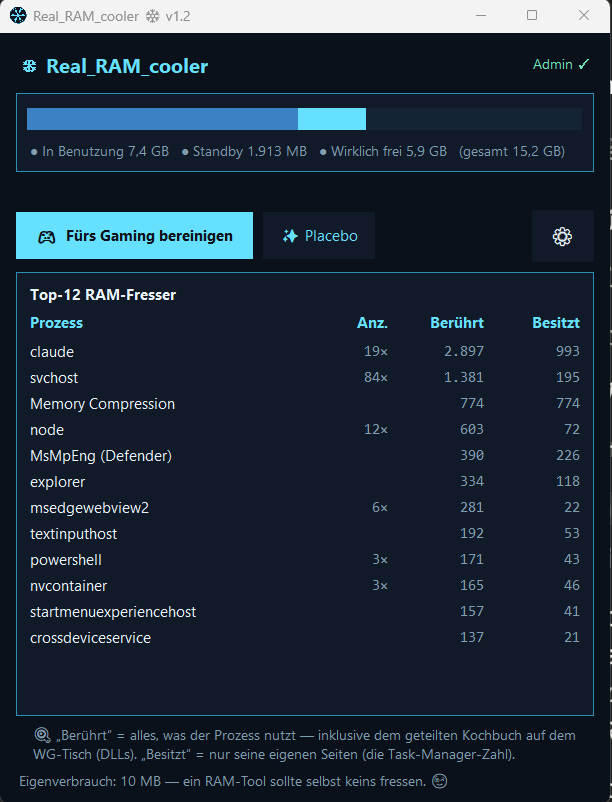
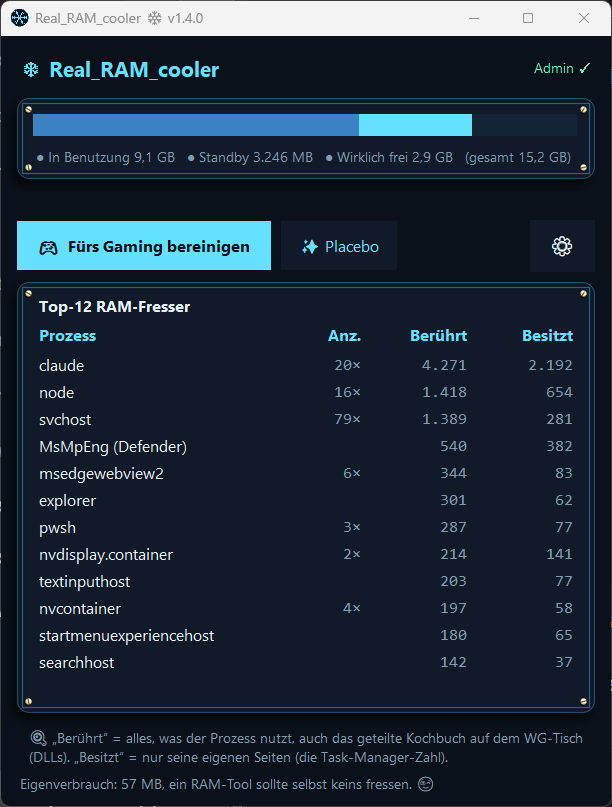
Real_RAM_cooler 1.4.0: Karten mit Beschlag wie auf der Startseite
Die Karte mit dem RAM-Balken und die Prozessliste haben jetzt runde
Außenkanten, einen eckigen Innenrahmen, vier kleine Schrauben in Weißgold
und einen weichen Schatten nach links unten. tkinter kann weder Rundungen
noch weiche Schatten, darum ist jede Karte eine Zeichenfläche mit einem
gerechneten Bild, der Inhalt liegt darauf. README-Bilder neu.

diff --git a/real_ram_cooler.py b/real_ram_cooler.py
@@ -33,6 +33,7 @@ import json
 import time
 import ctypes
 import threading
+import math
 import subprocess
 
 # ── Nur Windows ──────────────────────────────────────────────────────
@@ -47,10 +48,10 @@ from ctypes import wintypes, byref, sizeof
 
 import pystray
 from pystray import MenuItem as TrayItem, Menu as TrayMenu
-from PIL import Image, ImageDraw
+from PIL import Image, ImageChops, ImageDraw, ImageFilter, ImageTk
 
 APP_NAME = "Real_RAM_cooler"
-VERSION = "1.3.3"
+VERSION = "1.4.0"
 TASK_NAME = "Real_RAM_cooler_Autostart"
 
 # ═════════════════════════════════════════════════════════════════════
@@ -1313,6 +1314,184 @@ def fmt_gb(b):
         s = s.replace(".", ",")
     return s + " GB"
 
+# ═══════════════════════════════════════════════════════════════════
+#  BESCHLAG — der Look der Werkstatt: Karten mit runder Außenkante, darin
+#  ein eckiger Rahmen, an jeder Ecke eine kleine Schraube in Weißgold, jede
+#  anders gedreht. Licht von rechts oben, Schatten nach links unten.
+#  tkinter kennt weder Rundungen noch weiche Schatten: Jede Karte ist eine
+#  Zeichenfläche mit einem gerechneten Bild, ihr Inhalt liegt darauf.
+# ═══════════════════════════════════════════════════════════════════
+K_RADIUS = 12                          # Rundung der Karte
+K_INNEN = 5                            # Abstand des Rahmens von der Kante
+K_ABSTAND = 2                          # Abstand der Schraube vom Rahmen
+K_SCHRAUBE = 9                         # Größe einer Schraube
+K_RAND = K_INNEN + K_ABSTAND + K_SCHRAUBE   # so weit sitzt der Inhalt seitlich innen
+K_OBEN = K_INNEN + 3                   # oben und unten: knapp im Rahmen, zwischen den Schrauben
+K_SCHATTEN = (-5, 6)                   # Versatz: nach links unten
+K_WEICH = 5                            # Unschärfe des Schattens
+K_LUFT = 12                            # Platz für den Schatten links und unten
+K_WINKEL = (32, -58, 78, -14)          # Schlitz je Schraube, in Grad
+
+
+def _hex(farbe: str) -> tuple[int, int, int]:
+    return int(farbe[1:3], 16), int(farbe[3:5], 16), int(farbe[5:7], 16)
+
+
+def _mische(a: str, b: str, anteil: float) -> tuple[int, int, int]:
+    """Farbe a mit dem Anteil von b."""
+    x, y = _hex(a), _hex(b)
+    return tuple(round(x[i] + (y[i] - x[i]) * anteil) for i in range(3))
+
+
+def _verlauf(stufen, t: float):
+    """Wert eines Farbverlaufs an der Stelle t. stufen: (stelle, (r, g, b, deckung))"""
+    if t <= stufen[0][0]:
+        return stufen[0][1]
+    for (t0, f0), (t1, f1) in zip(stufen, stufen[1:]):
+        if t <= t1:
+            k = (t - t0) / ((t1 - t0) or 1)
+            return tuple(f0[i] + (f1[i] - f0[i]) * k for i in range(4))
+    return stufen[-1][1]
+
+
+_KOPF = ((0.0, (255, 255, 255, 1)), (0.2, (255, 252, 238, 1)), (0.5, (241, 228, 188, 1)),
+         (0.8, (196, 169, 100, 1)), (1.0, (122, 98, 38, 1)))
+_RING = ((0.0, (138, 106, 34, .55)), (0.5, (255, 243, 196, 0)), (1.0, (255, 251, 234, .7)))
+_SCHRAUBEN: dict = {}
+
+
+def schraube(winkel: float, groesse: int = K_SCHRAUBE):
+    """Eine Schraube in Weißgold, Punkt für Punkt gerechnet: Schatten nach
+    links unten, gewölbter Kopf, Schlitz im Winkel, Glanzpunkt rechts oben.
+    Dieselbe Zeichnung wie auf der Startseite, dort als SVG auf 12 × 12."""
+    if (winkel, groesse) in _SCHRAUBEN:
+        return _SCHRAUBEN[(winkel, groesse)]
+    n = groesse * 6                    # sechsfach gerechnet, dann verkleinert: glatte Kanten
+    co, si = math.cos(math.radians(-winkel)), math.sin(math.radians(-winkel))
+    gc, gs = math.cos(math.radians(35)), math.sin(math.radians(35))
+    punkte = []
+
+    def strich(x, y, x0, x1, y0):
+        """Abstand zu einer waagrechten Strecke mit runden Enden"""
+        return math.hypot(x - max(x0, min(x1, x)), y - y0)
+
+    for j in range(n):
+        v = (j + .5) * 12 / n
+        for i in range(n):
+            u = (i + .5) * 12 / n
+            r = g = b = a = 0.0        # Farbe mal Deckung, wird Schicht für Schicht belegt
+
+            def auf(farbe, deckung):
+                nonlocal r, g, b, a
+                r = farbe[0] * deckung + r * (1 - deckung)
+                g = farbe[1] * deckung + g * (1 - deckung)
+                b = farbe[2] * deckung + b * (1 - deckung)
+                a = deckung + a * (1 - deckung)
+
+            # Schatten der Schraube auf der Platte
+            if math.hypot(u - 5.1, v - 6.9) <= 5:
+                t = math.hypot(u - 4.3, v - 7.7) / 5
+                auf((0, 0, 0), .6 if t <= .55 else max(0.0, .6 * (1 - (t - .55) / .45)))
+            m = math.hypot(u - 6, v - 6)
+            # Kopf, heller Fleck rechts oben
+            if m <= 4.3:
+                f = _verlauf(_KOPF, math.hypot(u - 7.376, v - 4.28) / 6.708)
+                auf(f, 1)
+            # dunkle Kante
+            if abs(m - 4.3) <= .225:
+                auf((85, 62, 12), .6)
+            # feiner Ring: oben rechts dunkel, unten links hell
+            if abs(m - 2.9) <= .25:
+                f = _verlauf(_RING, ((8.9 - u) / 5.8 + (v - 3.1) / 5.8) / 2)
+                auf(f, f[3])
+            # Schlitz und sein heller Rand
+            x = 6 + (u - 6) * co - (v - 6) * si
+            y = 6 + (u - 6) * si + (v - 6) * co
+            if strich(x, y, 2.5, 9.5, 6) <= .6:
+                auf((58, 42, 7), 1)
+            if strich(x, y, 2.7, 9.3, 6.62) <= .15:
+                auf((255, 247, 218), .75)
+            # Glanzpunkt
+            ex = (u - 7.7) * gc - (v - 3.9) * gs
+            ey = (u - 7.7) * gs + (v - 3.9) * gc
+            if (ex / 1.05) ** 2 + (ey / .6) ** 2 <= 1:
+                auf((255, 255, 255), .9)
+            punkte.append((round(r), round(g), round(b), round(a * 255)))
+
+    bild = Image.new("RGBa", (n, n))
+    bild.putdata(punkte)
+    bild = bild.resize((groesse, groesse), Image.LANCZOS).convert("RGBA")
+    _SCHRAUBEN[(winkel, groesse)] = bild
+    return bild
+
+
+def kasten_bild(w: int, h: int):
+    """Das Bild einer Karte auf w × h Punkten: links und unten bleibt Platz
+    für den Schatten, der Rest ist die Karte mit Rahmen und Schrauben."""
+    ph = h - K_LUFT
+    k = 4                              # vierfach zeichnen, dann verkleinern
+    kante = [K_LUFT * k, 0, w * k - 1, ph * k - 1]
+    form = Image.new("L", (w * k, h * k), 0)
+    ImageDraw.Draw(form).rounded_rectangle(kante, radius=K_RADIUS * k, fill=255)
+    gross = Image.new("RGB", (w * k, h * k), _hex(C_PANEL))
+    d = ImageDraw.Draw(gross)
+    d.rounded_rectangle(kante, radius=K_RADIUS * k, width=k,
+                        outline=_mische(C_PANEL, C_ACCENT_D, .55))
+    d.rectangle([(K_LUFT + K_INNEN) * k, K_INNEN * k,
+                 (w - K_INNEN) * k - 1, (ph - K_INNEN) * k - 1],
+                width=k, outline=_mische(C_PANEL, C_ACCENT_D, .75))
+    karte = gross.resize((w, h), Image.LANCZOS)
+    form = form.resize((w, h), Image.LANCZOS)
+
+    schatten = ImageChops.offset(form, K_SCHATTEN[0], K_SCHATTEN[1])
+    schatten = schatten.filter(ImageFilter.GaussianBlur(K_WEICH)).point(lambda v: int(v * .7))
+    bild = Image.composite(Image.new("RGB", (w, h), (0, 0, 0)),
+                           Image.new("RGB", (w, h), _hex(C_BG)), schatten)
+    bild.paste(karte, (0, 0), form)
+    bild = bild.convert("RGBA")
+    links = K_LUFT + K_INNEN + K_ABSTAND
+    rechts = w - K_INNEN - K_ABSTAND - K_SCHRAUBE
+    oben = K_INNEN + K_ABSTAND
+    unten = ph - K_INNEN - K_ABSTAND - K_SCHRAUBE
+    for (x, y), winkel in zip(((links, oben), (rechts, oben), (links, unten), (rechts, unten)),
+                              K_WINKEL):
+        bild.alpha_composite(schraube(winkel), (x, y))
+    return bild.convert("RGB")
+
+
+class Beschlagkasten(tk.Canvas):
+    """Eine Karte mit Beschlag. Der Inhalt kommt in `innen`. Ohne `dehnbar`
+    richtet sich die Höhe nach dem Inhalt, mit `dehnbar` füllt die Karte den
+    Platz, den sie bekommt."""
+
+    def __init__(self, eltern, dehnbar=False):
+        super().__init__(eltern, bg=C_BG, highlightthickness=0, bd=0, height=80)
+        self.innen = tk.Frame(self, bg=C_PANEL)
+        self._fenster = self.create_window(K_LUFT + K_RAND, K_OBEN,
+                                           window=self.innen, anchor="nw")
+        self._dehnbar = dehnbar
+        self._mass = None
+        self._bild = None
+        self.bind("<Configure>", self._neu)
+        if not dehnbar:
+            self.innen.bind("<Configure>", self._hoehe)
+
+    def _hoehe(self, e):
+        self.configure(height=e.height + 2 * K_OBEN + K_LUFT)
+
+    def _neu(self, e):
+        w, h = e.width, e.height
+        self.itemconfigure(self._fenster, width=max(10, w - K_LUFT - 2 * K_RAND))
+        if self._dehnbar:
+            self.itemconfigure(self._fenster, height=max(10, h - K_LUFT - 2 * K_OBEN))
+        if (w, h) == self._mass or w < 80 or h < 60:
+            return
+        self._mass = (w, h)
+        self._bild = ImageTk.PhotoImage(kasten_bild(w, h))
+        self.delete("grund")
+        self.create_image(0, 0, image=self._bild, anchor="nw", tags="grund")
+
+
 class Tooltip:
     """Winziger Tooltip fürs ehrliche Placebo-Label."""
     def __init__(self, widget, text):
@@ -1401,24 +1580,27 @@ class RealRAMCooler:
         self.lbl_admin.pack(side="right")
 
         # RAM-Balken
-        barbox = tk.Frame(self.root, bg=C_PANEL, highlightthickness=1,
-                          highlightbackground=C_ACCENT_D)
-        barbox.pack(fill="x", pady=(6, 4), **pad)
+        # Karten mit Beschlag: links und unten brauchen sie Platz für den
+        # Schatten, darum der kleinere Abstand links.
+        kpad = {"padx": (16 - K_LUFT, 16)}
+        barkasten = Beschlagkasten(self.root)
+        barkasten.pack(fill="x", pady=(6, 0), **kpad)
+        barbox = barkasten.innen
         self.bar = tk.Canvas(barbox, height=30, bg=C_PANEL,
                              highlightthickness=0)
-        self.bar.pack(fill="x", padx=10, pady=(10, 4))
+        self.bar.pack(fill="x", pady=(4, 4))
         self.lbl_legend = tk.Label(barbox, text="", font=FONT_SMALL,
                                    bg=C_PANEL, fg=C_MUTED)
-        self.lbl_legend.pack(anchor="w", padx=10, pady=(0, 8))
+        self.lbl_legend.pack(anchor="w", pady=(0, 2))
 
         # Vorher/Nachher-Banner (erscheint nach jeder Bereinigung)
         self.banner = tk.Label(self.root, text="", font=FONT_BOLD, bg=C_BG,
                                fg=C_GOOD, wraplength=520, justify="left")
-        self.banner.pack(fill="x", pady=(2, 2), **pad)
+        self.banner.pack(fill="x", pady=(0, 0), **pad)
 
         # Buttons
         btns = tk.Frame(self.root, bg=C_BG)
-        btns.pack(fill="x", pady=(4, 8), **pad)
+        btns.pack(fill="x", pady=(2, 8), **pad)
 
         self.btn_real = tk.Button(
             btns, text=t("btnReal"),
@@ -1449,14 +1631,14 @@ class RealRAMCooler:
             self.btn_placebo.configure(state="disabled")
 
         # Prozess-Tabelle
-        tablebox = tk.Frame(self.root, bg=C_PANEL, highlightthickness=1,
-                            highlightbackground=C_ACCENT_D)
-        tablebox.pack(fill="both", expand=True, pady=(2, 6), **pad)
+        tabkasten = Beschlagkasten(self.root, dehnbar=True)
+        tabkasten.pack(fill="both", expand=True, pady=(2, 0), **kpad)
+        tablebox = tabkasten.innen
         tk.Label(tablebox, text=t("topList"), font=FONT_BOLD,
-                 bg=C_PANEL, fg=C_TEXT).pack(anchor="w", padx=10,
-                                             pady=(8, 2))
+                 bg=C_PANEL, fg=C_TEXT).pack(anchor="w", padx=3,
+                                             pady=(2, 2))
         self.table = tk.Frame(tablebox, bg=C_PANEL)
-        self.table.pack(fill="both", expand=True, padx=10, pady=(0, 8))
+        self.table.pack(fill="both", expand=True, padx=3, pady=(0, 0))
 
         # Fußnoten: Kochbuch 🍳 + Eigenverbrauch
         self.lbl_cookbook = tk.Label(
@@ -1737,7 +1919,7 @@ class RealRAMCooler:
         wide = max(300, e.width - 40)    # Banner + Fußnote (padx 16 je Seite)
         self.banner.configure(wraplength=wide)
         self.lbl_cookbook.configure(wraplength=wide)
-        self.lbl_legend.configure(wraplength=max(300, e.width - 60),
+        self.lbl_legend.configure(wraplength=max(300, e.width - 64),
                                   justify="left")
 
     # ── Anzeige-Aktualisierung ───────────────────────────────────────
